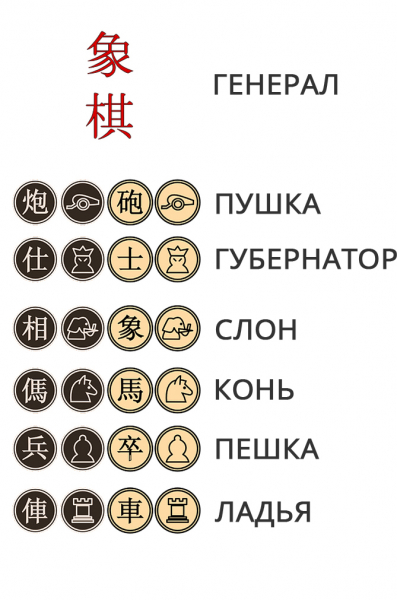
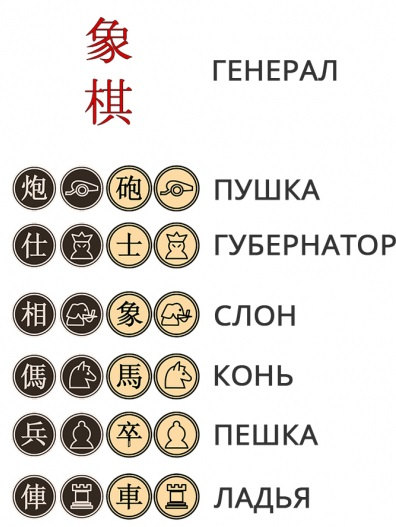
Адаптив первой страницы + фиксы

diff --git a/src/pages/educational-text/EducationalText.scss b/src/pages/educational-text/EducationalText.scss
@@ -1,20 +1,26 @@
 .educational-text {
   overflow: auto;
   margin: 0 auto;
-  width: 900px;
+  max-width: 900px;
   max-height: 90vh;
   padding: 40px;
   position: relative;
-
   background: #FFFFFF;
   box-shadow: 0px 10px 20px rgba(0, 0, 0, 0.04);
   border-radius: 8px;
-
   opacity: 0;
   animation: ani 2s forwards;
 
   &__img {
     display: flex;
+  }
+
+  &__img img:first-child {
+    width: 60%;
+  }
+
+  &__img img:last-child {
+    width: 40%;
   }
 
   p+p {
@@ -72,5 +78,37 @@
 
   100% {
     opacity: 1;
+  }
+}
+
+@media (max-width: 768px) {
+  .educational-text {
+    max-width: 100vw;
+    max-height: 100vh;
+    padding: 20px;
+  }
+}
+
+@media (max-width: 550px) {
+  .educational-text {
+
+    &__img img:first-child {
+      width: 100%;
+    }
+
+    &__img img:last-child {
+      width: 100%;
+    }
+
+    &__img {
+      display: flex;
+      flex-direction: column;
+    }
+  }
+}
+
+@media (max-width: 320px) {
+  .educational-text {
+    padding: 5px;
   }
 }

diff --git a/src/pages/educational-text/EducationalText.jsx b/src/pages/educational-text/EducationalText.jsx
@@ -30,8 +30,10 @@ export default function EducationalText({ ChangeIsTestShow }) {
       <h2>Запоминаем фигуры и обозначения</h2>
 
       <div className="educational-text__img">
-        <img height={500} src="/ikit/img/playing-board.png" alt="img" />
-        <img height={500} src="/ikit/img/figures.jpg" alt="img" />
+        <img src="./img/playing-board.png" alt="img" />
+        <img src="./img/figures.jpg" alt="img" />
+        {/* <img src="./ikit/img/playing-board.png" alt="img" />
+        <img src="./ikit/img/figures.jpg" alt="img" /> */}
       </div>
 
       <div className="educational-text__figures">

diff --git a/src/components/result/Result.jsx b/src/components/result/Result.jsx
@@ -6,7 +6,7 @@ export default function Result({ questions, correct, onClickRestart, ChangeIsTes
     <div className="result">
       <img src="https://cdn-icons-png.flaticon.com/512/2278/2278992.png" alt="img"/>
       <h2>
-        Вы отгадали {correct} ответа из {questions.length}
+        Поздравляем, вы удачно прошли тест, ответив на все вопросы!
       </h2>
       <Button mt={15} title={"Попробовать снова"} fun={onClickRestart} />
       <Button mt={15} title={"Назад"} fun={ChangeIsTestShow} />

diff --git a/src/components/test/Test.jsx b/src/components/test/Test.jsx
@@ -8,7 +8,7 @@ export default function Test({ questions, step, question, onClickVariant, isShow
       <div className="progress">
         <div style={{ width: `${percentage}%` }} className="progress__inner"></div>
       </div>
-      <div test__question>
+      <div className="test__question">
         <h1>{question.title}</h1>
         <ul>
           {question.variants.map((text, index) => (

diff --git a/src/pages/control-test/ControlTest.scss b/src/pages/control-test/ControlTest.scss
@@ -1,5 +1,4 @@
 .control-test-wrapper {
-  min-height: 500px;
   width: 500px;
   padding: 40px;
   background-color: #fff;
